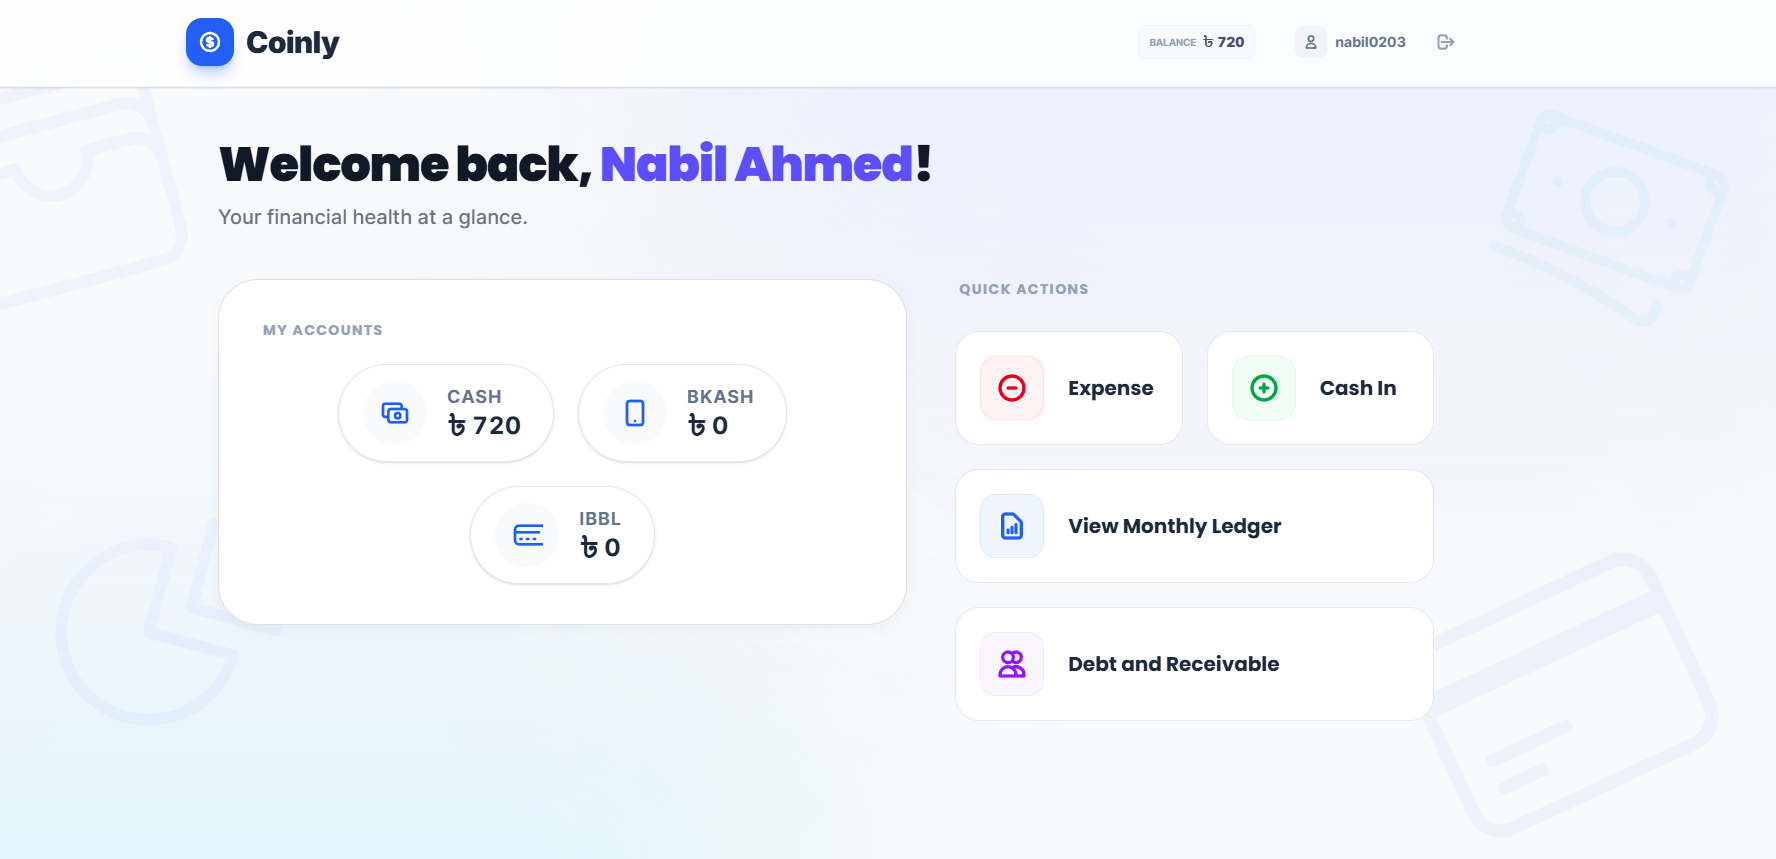
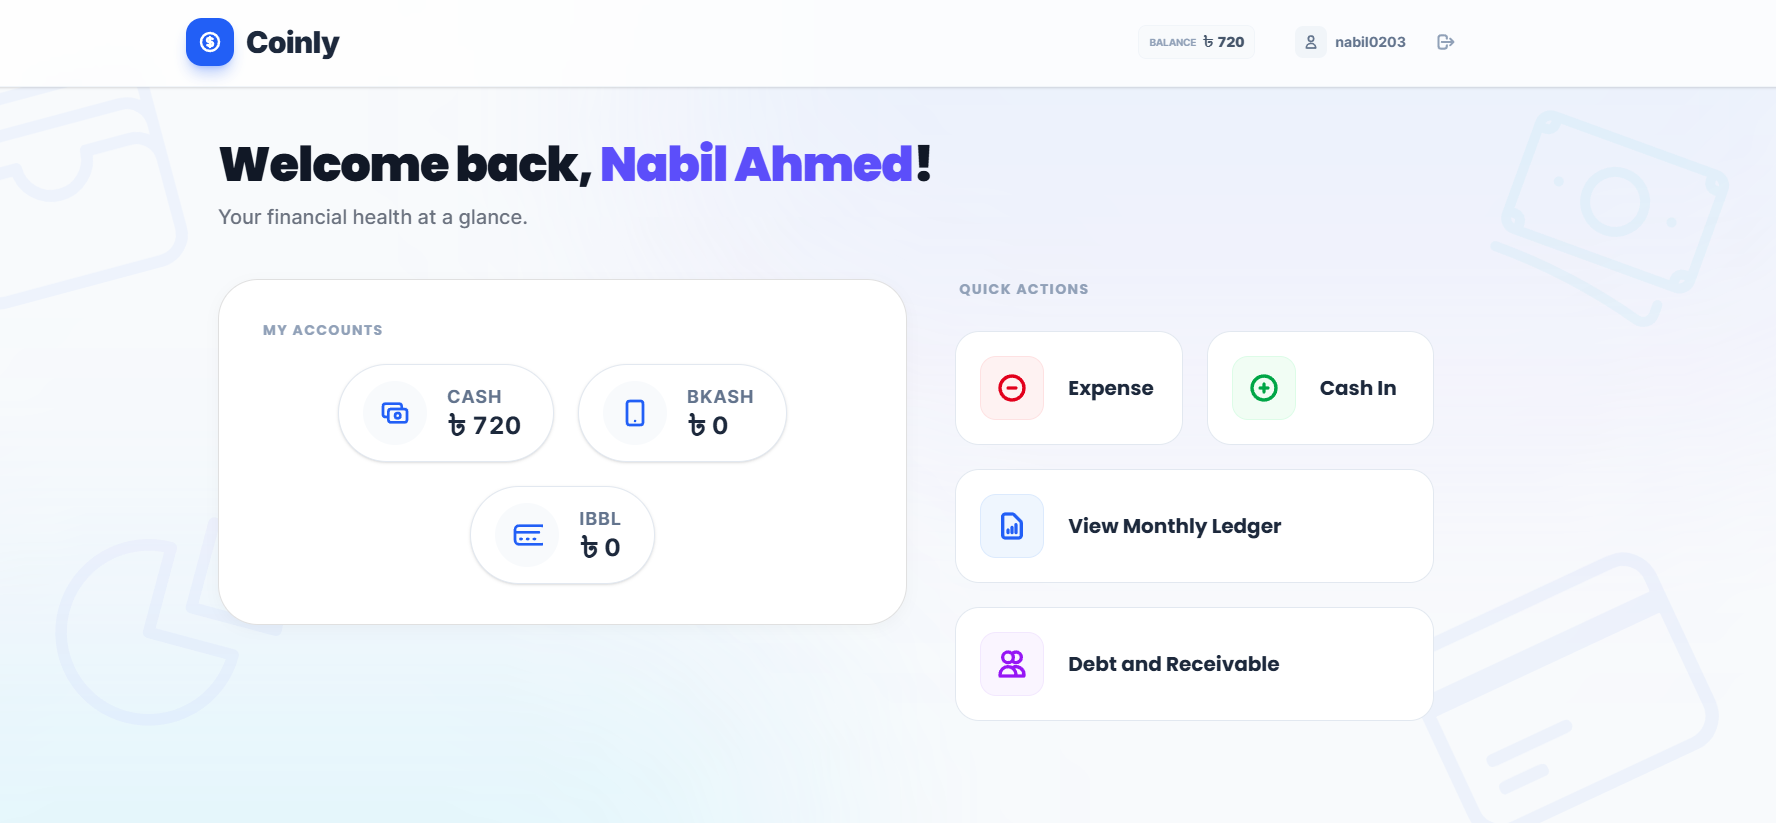
added new project and edit picture

diff --git a/data/portfolioData.ts b/data/portfolioData.ts
@@ -130,6 +130,16 @@ export const projectsData: Project[] = [
     featured: true
   },
   {
+    id: 'farm2market',
+    title: '🧑🌾 Farm2Market',
+    description: 'A Django-based web application that connects farmers directly with buyers, enabling streamlined product listings, cart management, order tracking, and logistics coordination eliminating the need for middlemen.',
+    tools: ['Django', 'MySQL', 'Supabase', 'Django templates', 'Tailwind CSS'],
+    githubUrl: 'https://github.com/nabil0203/Farm2Market',
+    liveUrl: '',
+    imageUrl: '/images/projects/farm2market.png',
+    featured: true
+  },
+  {
     id: 'taskify',
     title: '✅Taskify',
     description: 'A modern task management application with intuitive drag-and-drop functionality, real-time update, deadline tracking, and customizable workflows. Designed to boost productivity.',
